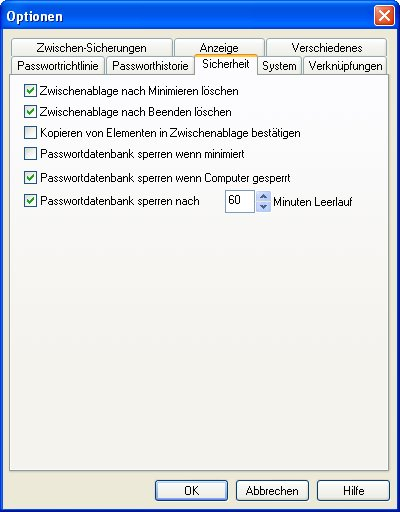
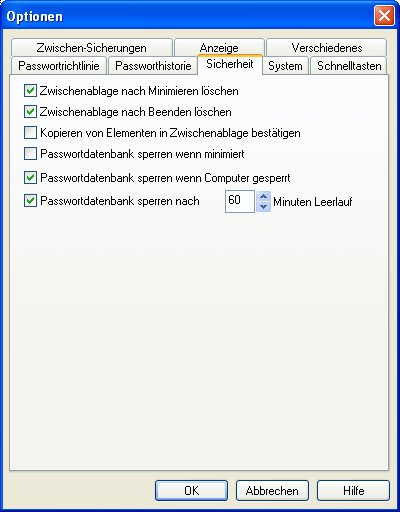
last details for German help file (Verknüpfung -> Schnelltaste)

diff --git a/pwsafe/pwsafe/help/pwsafeDE/html/password_history_tab.html b/pwsafe/pwsafe/help/pwsafeDE/html/password_history_tab.html
@@ -13,7 +13,7 @@
 <h2>Passworthistorie</h2>
 <img alt="Reiter Passworthistorie" src="images/options/password_history_tab.jpg"><br>
 <br>
-Wenn Sie das Passwort eines Eintrages &auml;ndern, kann <b>Password Safe</b> die alten Passw&ouml;rter, die zu diesem Eintrag geh&ouml;ren, abspeichern. Dies ist dann z.B. n&uuml;tzlich, wenn die &Auml;nderung des Passwortes nicht das erhoffte Ergebnis gebracht hat in der Anwendung, in dem das Passwort eingesetzt wurde. Auch kann festgelegt werden wie viele Passw&ouml;rter f&uuml;r einen neuen Eintrag standardm&auml;&szlig;ig gespeichert werden sollen. Dies kann allerdings f&uuml;r einen bestimmten Eintrag wieder aufgehoben werden im Dialog "Eintrag bearbeiten" oder "Eintrag einf&uuml;gen".
+Im Reiter <b>Passworthistorie</b> werden die Regeln, wie die Historie der Eintr&auml;ge in <b>Password Safe</b> festgehalten wird, beschrieben.<br>Wenn Sie das Passwort eines Eintrages &auml;ndern, kann <b>Password Safe</b> die alten Passw&ouml;rter, die zu diesem Eintrag geh&ouml;ren, abspeichern. Dies ist dann z.B. n&uuml;tzlich, wenn die &Auml;nderung des Passwortes nicht das erhoffte Ergebnis gebracht hat in der Anwendung, in dem das Passwort eingesetzt wurde. Auch kann festgelegt werden wie viele Passw&ouml;rter f&uuml;r einen neuen Eintrag standardm&auml;&szlig;ig gespeichert werden sollen. Dies kann allerdings f&uuml;r einen bestimmten Eintrag wieder aufgehoben werden im Dialog "Eintrag bearbeiten" oder "Eintrag einf&uuml;gen".
 <h3>Speichere <i>N</i> bisherige Passw&ouml;rter pro Eintrag</h3>
 Wenn Sie dies markieren, und die Anzahl festlegen, definieren Sie hiermit den <i>standardm&auml;&szlig;igen</i> Wert wie viele Passw&ouml;rter festgehalten werden f&uuml;r jeden neuen Eintrag.
 <h3>Verwalte Passworthistorie der aktuellen Eintr&auml;ge</h3>

diff --git a/pwsafe/pwsafe/help/pwsafeDE/html/password_history.html b/pwsafe/pwsafe/help/pwsafeDE/html/password_history.html
@@ -11,7 +11,7 @@
 <object id="popup" type="application/x-oleobject" classid="clsid:adb880a6-d8ff-11cf-9377-00aa003b7a11"> </object>
 <!-- Popup Source File -->
 <h2>Passworthistorie</h2>
-Mit <b>Password Safe</b> k&ouml;nnen Sie die letzten paar Passw&ouml;rter eines Eintrages zusammen mit dem Datum festhalten, an welchem die Passw&ouml;rter gesetzt wurden. Dies ist n&uuml;tzlich, um eine &Uuml;bereinstimmung des Passwortes mit den an einigen Stellen eingesetzten Passwortrichtlinien nachzuweisen, oder um ein Passwort auf eine &auml;ltere Version zur&uuml;ckzuschalten, wenn das neue Passwort (warum auch immer) nicht funktioniert. Die Passworthistorie kann mit der Taste "Passworthistorie" im Fensterdialog <a href="entering_pwd.html">Eintrag bearbeiten</a> erreicht werden.<br><br>
+<br>In <b>Password Safe</b> k&ouml;nnen Sie die letzten paar Passw&ouml;rter eines Eintrages zusammen mit dem Datum festhalten, an welchem die Passw&ouml;rter gesetzt wurden. Dies ist n&uuml;tzlich, um eine &Uuml;bereinstimmung des Passwortes mit den an einigen Stellen eingesetzten Passwortrichtlinien nachzuweisen, oder um ein Passwort auf eine &auml;ltere Version zur&uuml;ckzuschalten, wenn das neue Passwort (warum auch immer) nicht funktioniert. Die Passworthistorie kann mit der Taste "Passworthistorie" im Fensterdialog <a href="entering_pwd.html">Eintrag bearbeiten</a> erreicht werden.<br><br>
 <img alt="Passworthistorie" src="images/password_history.jpg">
 <p>Dieser Dialog stellt die letzten paar Passw&ouml;rter f&uuml;r den jeweiligen Eintrag da. Um dies anzuzeigen dr&uuml;cken Sie auf die Taste "Passworthistorie" im Eintrag bearbeiten/Einf&uuml;gen Dialog. Folgendes kann gemacht werden:</p>
 <h3>Die <i>N</i> letzten Passw&ouml;rter behalten</h3>

diff --git a/pwsafe/pwsafe/help/pwsafeDE/html/security_tab.html b/pwsafe/pwsafe/help/pwsafeDE/html/security_tab.html
@@ -12,7 +12,7 @@
 <!-- Popup Source File -->
 <h2>Sicherheit</h2>
 <img alt="Reiter Sicherheit" src="images/options/security_tab.jpg">
-<p>Im Reiter Sicherheit werden die sicherheitsrelevanten Einstellungen vorgenommen. Eine einfache Handhabung und die Sicherheit der Anwendung werden von den aufgelisteten Optionen beeinflusst. Die Sicherheit der verschl&uuml;sselten Datenbank hingegen ist keineswegs betroffen.</p>
+<p>Im Reiter <b>Sicherheit</b> werden die sicherheitsrelevanten Einstellungen vorgenommen. Eine einfache Handhabung und die Sicherheit der Anwendung werden von den aufgelisteten Optionen beeinflusst. Die Sicherheit der verschl&uuml;sselten Datenbank hingegen ist keineswegs betroffen.</p>
 <div class="instr">
 <h3>Zwischenablage nach Minimieren l&ouml;schen</h3>
 <p>Wenn  markiert, wird die Anwendung, wenn sie minimiert wird, in der Zwischenablage alle gespeicherten Informationen l&ouml;schen (z.B. das Passwort). Dies verhindert dass jemand anderes oder eine andere Anwendung den Inhalt der Zwischenablage lesen kann. Beachten Sie, dass das Markieren dieser Option zusammen mit der Doppelklick-Aktion "Passwort in die Zwischenablage kopieren, minimieren" im Reiter <a href="misc_tab.html">Verschiedenes</a> zu unerwartete Ergebnisse f&uuml;hren kann (das Passwort wird kopiert, aber anschlie&szlig;end gleich wieder gel&ouml;scht).</p>

diff --git a/pwsafe/pwsafe/help/pwsafeDE/html/manage_menu.html b/pwsafe/pwsafe/help/pwsafeDE/html/manage_menu.html
@@ -34,7 +34,7 @@
 <a href="password_policies.html">Passwortrichtlinie</a><br>
 <a href="password_history_tab.html">Passworthistorie</a><br>
 <a href="misc_tab.html">Verschiedenes</a><br>
-<a href="shortcuts_tab.html">Verkn&uuml;pfungen</a><br>
+<a href="shortcuts_tab.html">Schnelltasten</a><br>
 <hr><b>Hinweis:</b><br>
 <small>Viele dieser Einstellungen werden als <i>Voreinstellungen</i> abgespeichert, wie <a href="preferences.html">hier</a>  beschrieben.</small>
 			</div>
@@ -54,7 +54,7 @@ W&auml;hlen Sie die Symbole aus die dargestellt werden sollen oder nicht in der 
 			<param name="Keyword" value="Reiter Passworthistorie">
 			<param name="Keyword" value="Reiter Zwischen-Sicherungen">
 			<param name="Keyword" value="Reiter System">
-			<param name="Keyword" value="Reiter Verkn&uuml;pfungen">
+			<param name="Keyword" value="Reiter Schnelltasten">
 			<param name="Keyword" value="&Auml;ndern vom Master-Passwort">
 		</object>
 </body>

diff --git a/pwsafe/pwsafe/help/pwsafeDE/html/credits.html b/pwsafe/pwsafe/help/pwsafeDE/html/credits.html
@@ -27,7 +27,7 @@
   <li><a target="newWin" href="https://sourceforge.net/forum/forum.php?forum_id=134801">Password Safe Forum</a>: Ein Forum f&uuml;r Fragen, Unterst&uuml;tzung und Probleme.</li>
   <li><a target="newWin" href="https://sourceforge.net/export/rss2_project.php?group_id=41019">Password Safe News</a>: RSS feeds verf&uuml;gbar f&uuml;r dieses Projekt.</li>
   <li>
-			Seite f&uuml;r die Mailingliste von <b>Password Safe</b>, niedriges Aufkommen (ungef&auml;hr eine Meldung pro Monat oder so), spam freie <a target="newWin" href="https://sourceforge.net/mail/?group_id=41019">Seite f&uuml;r Ank&uuml;ndigungen und Mailingliste</a>.</li>
+			Seite f&uuml;r die Mailingliste von <b>Password Safe</b>, niedriges Aufkommen (ungef&auml;hr eine Meldung pro Monat oder so), Spam freie <a target="newWin" href="https://sourceforge.net/mail/?group_id=41019">Seite f&uuml;r Ank&uuml;ndigungen und Mailingliste</a>.</li>
 </ul>
 <br>
 		</div>

diff --git a/pwsafe/pwsafe/help/pwsafeDE/html/backups_tab.html b/pwsafe/pwsafe/help/pwsafeDE/html/backups_tab.html
@@ -12,7 +12,7 @@
 <!-- Popup Source File -->
 <h2>Zwischen-Sicherungen</h2>
 <img alt="Reiter Zwischen-Sicherungen" src="images/options/backups_tab.jpg">
-<p>Im Reiter Zwischen-Sicherungen k&ouml;nnen Sie die Vorgehensweise konfigurieren, wie automatische Sicherungen erstellt und verwaltet werden.</p>
+<p>Im Reiter <b>Zwischen-Sicherungen</b> k&ouml;nnen Sie die Vorgehensweise konfigurieren, wie automatische Sicherungen erstellt und verwaltet werden.</p>
 <div class="instr">
 <h3>Datenbank sofort nach Bearbeiten oder Einf&uuml;gen speichern</h3>
 <p>Wenn markiert, speichert <b>Password Safe</b> alle &Auml;nderungen in einem Passworteintrag sofort ab, ohne abzuwarten, ob der Benutzer <b>Speichern</b> oder <b>Speichern unter</b> bet&auml;tigt.</p>

diff --git a/pwsafe/pwsafe/help/pwsafeDE/html/system_tab.html b/pwsafe/pwsafe/help/pwsafeDE/html/system_tab.html
@@ -12,7 +12,7 @@
 <!-- Popup Source File -->
 <h2>System</h2>
 <img alt="Reiter System" src="images/options/system_tab.jpg">
-<p>Der Reiter System gibt Zugriff auf die Einstellungen die <b>Password Safe</b> ben&ouml;tigt f&uuml;r das System worauf es l&auml;uft.</p>
+<p>Der Reiter <b>System</b> gibt Zugriff auf die Einstellungen die <b>Password Safe</b> ben&ouml;tigt f&uuml;r das System worauf es l&auml;uft.</p>
 <div class="instr">
 <h3>Symbol im Infobereich</h3>
 <p>Wenn markiert, wird <b>Password Safe</b> minimiert im Infobereich gestartet.<br>Wenn nicht markiert, startet das Programm minimiert in der Taskleiste.</p>

diff --git a/pwsafe/pwsafe/help/pwsafeDE/html/display_tab.html b/pwsafe/pwsafe/help/pwsafeDE/html/display_tab.html
@@ -11,7 +11,7 @@
 <object id="popup" type="application/x-oleobject" classid="clsid:adb880a6-d8ff-11cf-9377-00aa003b7a11"> </object>
 <!-- Popup Source File -->
 <h2>Anzeige</h2>
-<img src="images/options/display_tab.jpg" alt="Reiter Anzeige">
+<img src="images/options/display_tab.jpg" alt="Reiter Anzeige"><br>
 <br>Die Funktionen im Reiter <b>Anzeige</b> steuern wie welche Elemente in <b>Password Safe</b> angezeigt werden.
 <div class="instr">
 <h3>Password Safe immer im Vordergrund</h3>
